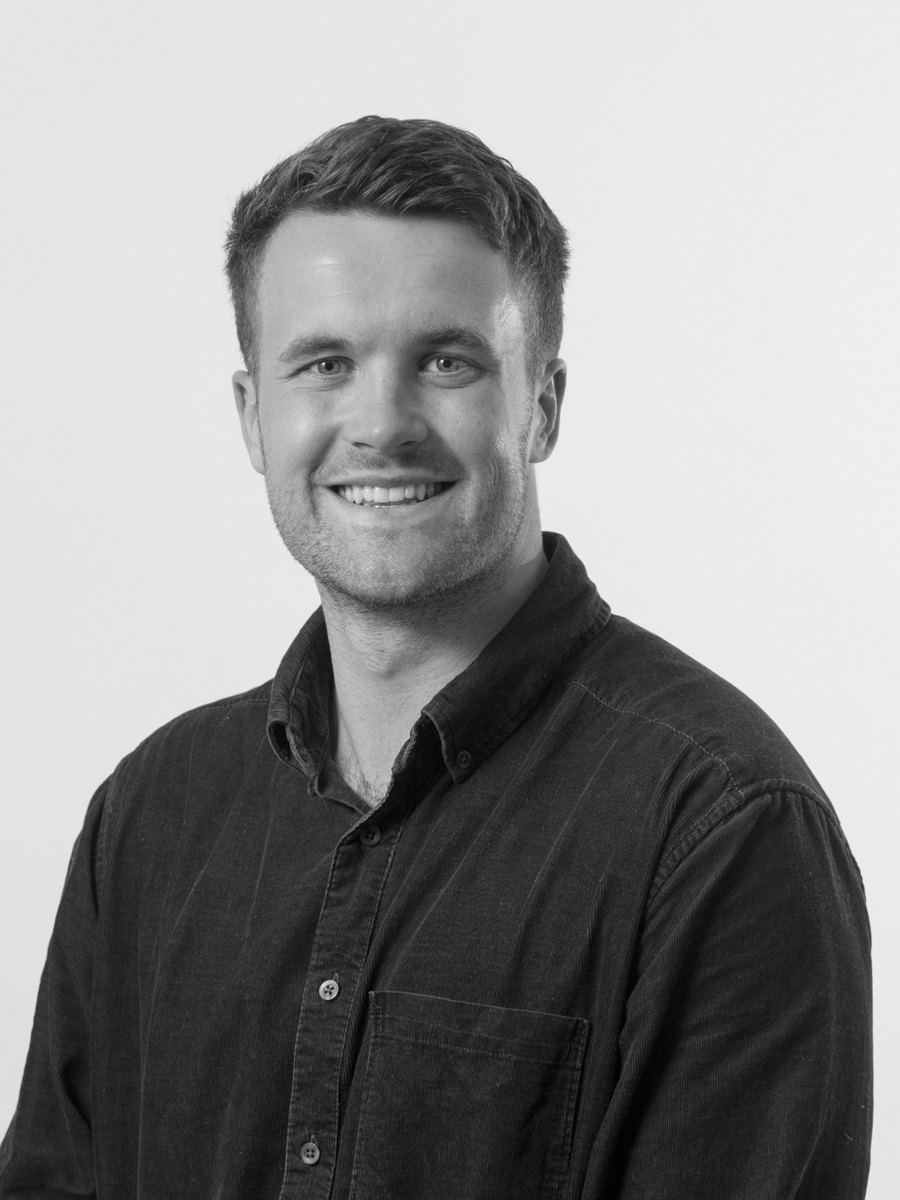
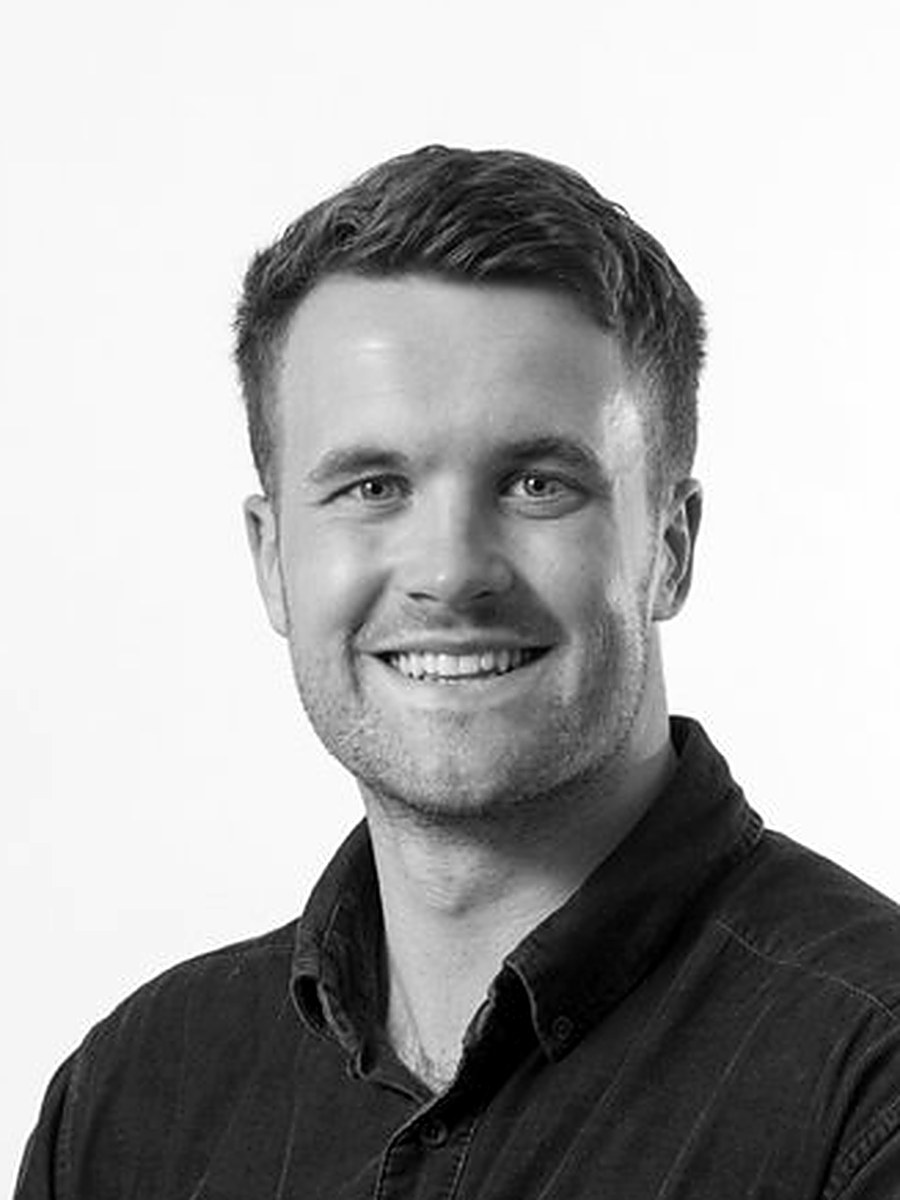
Recrop website headshots to one consistent black-and-white head shot
Every photo is now face-detected and cropped so the head sits at the same
size and eye line, with one shared B&W grade, from the share-drive
originals where they exist. Woody, Lucy Gardiner, Millie Edwards and Will
Penfold get bundled photos. marketing/scripts/crop-headshots.py is the
recipe for new starters.

Claude-Session: https://claude.ai/code/session_01VWYEsv9bQyCv1sfuch6PLS

diff --git a/marketing/src/lib/content.ts b/marketing/src/lib/content.ts
@@ -88,7 +88,7 @@ export const OFFICE_PHONE = "+44 (0)20 3551 5260";
 
 // Titles and contact details from the BGP team directory / public site.
 export const TEAM: Person[] = [
-  { name: "Woody Bruce", title: "Managing Director", phone: "+44 (0)7980 313 675", email: "woody@brucegillinghampollard.com" },
+  { photo: "/images/team/woody-bruce.jpg", name: "Woody Bruce", title: "Managing Director", phone: "+44 (0)7980 313 675", email: "woody@brucegillinghampollard.com" },
   { photo: "/images/team/tracey-pollard.jpg", name: "Tracey Pollard", title: "Founding Director", phone: "+44 (0)7779 323 306", email: "tracey@brucegillinghampollard.com" },
   { photo: "/images/team/charlotte-roberts.jpg", name: "Charlotte Roberts", title: "Equity Director, Co-Head London Estates", phone: "+44 (0)7738 448 338", email: "charlotte@brucegillinghampollard.com" },
   { photo: "/images/team/rupert-bentley-smith.jpg", name: "Rupert Bentley-Smith", title: "Equity Director, Co-Head London Estates", phone: "+44 (0)7876 354 160", email: "rupert@brucegillinghampollard.com" },
@@ -96,7 +96,7 @@ export const TEAM: Person[] = [
   { photo: "/images/team/victoria-broadhead.jpg", name: "Victoria Broadhead", title: "Head of National", phone: "+44 (0)7793 158 133", email: "victoria@brucegillinghampollard.com" },
   { photo: "/images/team/peter-wood.jpg", name: "Peter Wood", title: "Head of Lease Consultancy and Asset Management", phone: "+44 (0)7872 602 336", email: "peter@brucegillinghampollard.com" },
   { photo: "/images/team/nick-halley.jpg", name: "Nick Halley", title: "Director, Investment", phone: "+44 (0)7766 042 736", email: "nick@brucegillinghampollard.com" },
-  { name: "Lucy Gardiner", title: "Director, National Leasing", phone: "+44 (0)7741 877 452", email: "lucyg@brucegillinghampollard.com" },
+  { photo: "/images/team/lucy-gardiner.jpg", name: "Lucy Gardiner", title: "Director, National Leasing", phone: "+44 (0)7741 877 452", email: "lucyg@brucegillinghampollard.com" },
   { photo: "/images/team/lizzie-knights.jpg", name: "Lizzie Knights", title: "Director, London Leasing", phone: "+44 (0)7511 902 073", email: "lizzie@brucegillinghampollard.com" },
   { photo: "/images/team/harry-elliott.jpg", name: "Harry Elliott", title: "Director, Brand Representation", phone: "+44 (0)7568 367 777", email: "harrye@brucegillinghampollard.com" },
   { photo: "/images/team/emily-dumbell.jpg", name: "Emily Dumbell", title: "Director, National Leasing", phone: "+44 (0)7805 259 793", email: "emily@brucegillinghampollard.com" },
@@ -105,9 +105,9 @@ export const TEAM: Person[] = [
   { photo: "/images/team/lucy-cope.jpg", name: "Lucy Cope", title: "Associate Director, London Leasing", phone: "+44 (0)7595 267 866", email: "lucy@brucegillinghampollard.com" },
   { photo: "/images/team/evie-north.jpg", name: "Evie North", title: "Associate Director, Brand Representation", phone: "+44 (0)7595 349 057", email: "evie@brucegillinghampollard.com" },
   { photo: "/images/team/alex-todd.jpg", name: "Alex Todd", title: "Senior Surveyor, Development", phone: "+44 (0)7526 504 806", email: "alext@brucegillinghampollard.com" },
-  { name: "Millie Edwards", title: "Leasing", phone: OFFICE_PHONE, email: "TBC" },
+  { photo: "/images/team/millie-edwards.jpg", name: "Millie Edwards", title: "Leasing", phone: OFFICE_PHONE, email: "TBC" },
   { photo: "/images/team/emily-cann.jpg", name: "Emily Cann", title: "Graduate Surveyor, London Leasing", phone: "+44 (0)7516 660 791", email: "emilyc@brucegillinghampollard.com" },
-  { name: "Will Penfold", title: "Graduate Surveyor, London Leasing", phone: "+44 (0)7760 881 270", email: "willp@brucegillinghampollard.com" },
+  { photo: "/images/team/will-penfold.jpg", name: "Will Penfold", title: "Graduate Surveyor, London Leasing", phone: "+44 (0)7760 881 270", email: "willp@brucegillinghampollard.com" },
   { photo: "/images/team/luke-donohoe.jpg", name: "Luke Donohoe", title: "Graduate Surveyor, National Leasing", phone: "+44 (0)7983 855 926", email: "luke@brucegillinghampollard.com" },
   { photo: "/images/team/libby-evans.jpg", name: "Libby Evans", title: "Graduate Surveyor, Development", phone: "+44 (0)7931 462 768", email: "libbye@brucegillinghampollard.com" },
   { photo: "/images/team/jonny-palmer.jpg", name: "Jonny Palmer", title: "Graduate, Investment", phone: "+44 (0)7506 439 429", email: "jonny@brucegillinghampollard.com" },

diff --git a/marketing/scripts/crop-headshots.py b/marketing/scripts/crop-headshots.py
@@ -1,0 +1,61 @@
+import cv2, os, sys, numpy as np
+from PIL import Image, ImageOps, ImageFilter, ImageEnhance
+SP="/tmp/claude-0/-home-user/99d43de5-e54d-5c6f-a1ad-9b9246e57bfb/scratchpad"
+SRC=SP+"/src"; BUN="/home/user/bgp-wip-app/marketing/public/images/team"; OUT=SP+"/out"
+# person slug -> best source
+share={"woody-bruce":"Woody Bruce","tracey-pollard":"Tracey Pollard","charlotte-roberts":"Charlotte2022BW",
+ "rupert-bentley-smith":"Rupert Bentley-Smith","jack-barratt":"Jack Barratt","victoria-broadhead":"Victoria Broadhead",
+ "peter-wood":"Pete Wood","nick-halley":"Nick Halley","lucy-gardiner":"Lucy Gardiner","lizzie-knights":"Lizzie Knights",
+ "harry-elliott":"Harry Elliot","emily-dumbell":"Emily Dumbell","nick-goodman":"Nick Goodman","tom-cater":"Tom Cater",
+ "lucy-cope":"Lucy Cope","evie-north":"Evie North","alex-todd":"Alex Todd","millie-edwards":"Millie Edwards",
+ "will-penfold":"Will Penfold","libby-evans":"Libby Evans","layla-odriscoll":"Layla O'Driscoll","cara-milligan":"Cara Milligan"}
+bundled_only=["emily-cann","jonny-palmer","luke-donohoe"]
+casc=[cv2.CascadeClassifier(cv2.data.haarcascades+n) for n in ("haarcascade_frontalface_default.xml","haarcascade_frontalface_alt2.xml","haarcascade_profileface.xml")]
+W,H=900,1200
+FACE_FRAC=0.47   # face box width as fraction of output width
+FACE_CY=0.44     # face centre as fraction of output height
+def face(gray):
+    best=None
+    for c in casc:
+        for mn in (6,4,3):
+            f=c.detectMultiScale(gray,1.05,mn,minSize=(int(gray.shape[1]*0.08),)*2)
+            if len(f): 
+                b=max(f,key=lambda r:r[2]*r[3])
+                if best is None or b[2]*b[3]>best[2]*best[3]: best=b
+                break
+        if best is not None: break
+    return best
+def grade(im):
+    im=ImageOps.autocontrast(im,cutoff=(0.4,0.8))
+    a=np.asarray(im).astype(np.float32)/255
+    a=a+0.12*np.sin(np.pi*(a-0.5))*(1-np.abs(2*a-1))*0+0.10*(a-0.5)*(1-np.abs(2*a-1))  # gentle S
+    im=Image.fromarray(np.clip(a*255,0,255).astype(np.uint8))
+    return im
+log=[]
+jobs=[(s,os.path.join(SRC,share[s]+".jpg")) for s in share]+[(s,os.path.join(BUN,s+".jpg")) for s in bundled_only]
+for slug,path in jobs:
+    pil=ImageOps.exif_transpose(Image.open(path)).convert("L")
+    g=np.asarray(pil)
+    f=face(cv2.equalizeHist(g))
+    if f is None: log.append(f"{slug}: NO FACE"); continue
+    x,y,w,h=f
+    cw=w/FACE_FRAC; ch=cw*H/W
+    cx=x+w/2; cy=y+h/2
+    left=cx-cw/2; top=cy-FACE_CY*ch
+    iw,ih=pil.size
+    # if crop is bigger than image, shrink (face gets bigger) rather than invent pixels
+    s=min(1,iw/cw,ih/ch)
+    cw*=s; ch*=s
+    left=cx-cw/2; top=cy-FACE_CY*ch
+    left=min(max(left,0),iw-cw); top=min(max(top,0),ih-ch)
+    crop=pil.crop((int(left),int(top),int(left+cw),int(top+ch))).resize((W,H),Image.LANCZOS)
+    up=W/cw
+    if up>1.3: crop=crop.filter(ImageFilter.UnsharpMask(radius=2,percent=60,threshold=3))
+    crop=grade(crop)
+    crop.save(os.path.join(OUT,slug+".jpg"),quality=88,optimize=True,progressive=True)
+    log.append(f"{slug}: src {iw}x{ih} face {w}px scale {s:.2f} upscale {up:.2f}")
+print("\n".join(log))
+fs=sorted(os.listdir(OUT)); cols=9; tw,th=150,200
+sheet=Image.new("L",(cols*tw,((len(fs)+cols-1)//cols)*th),255)
+for i,fn in enumerate(fs): sheet.paste(Image.open(os.path.join(OUT,fn)).resize((tw,th)),((i%cols)*tw,(i//cols)*th))
+sheet.save(SP+"/sheet2.jpg")
